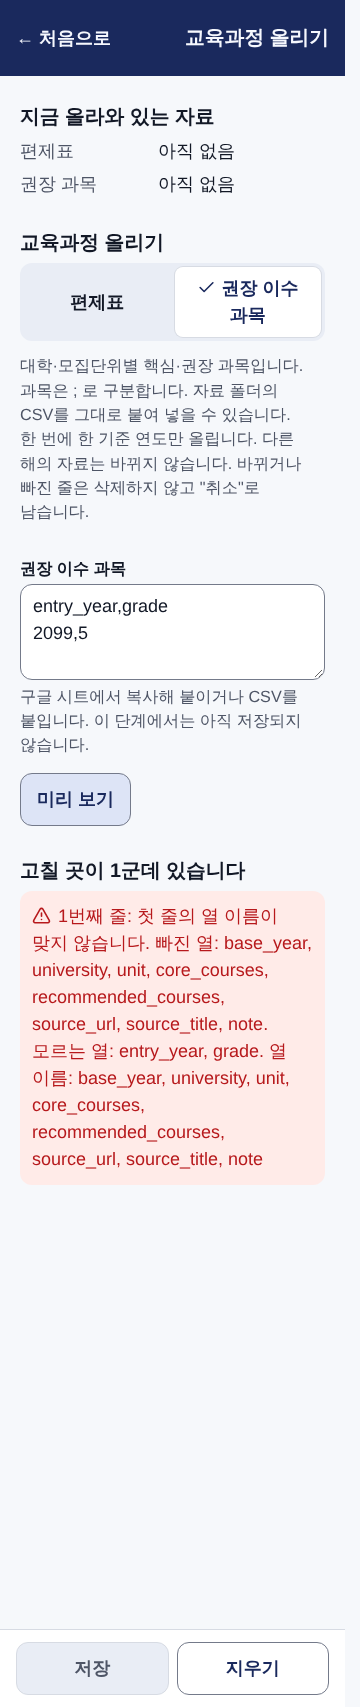
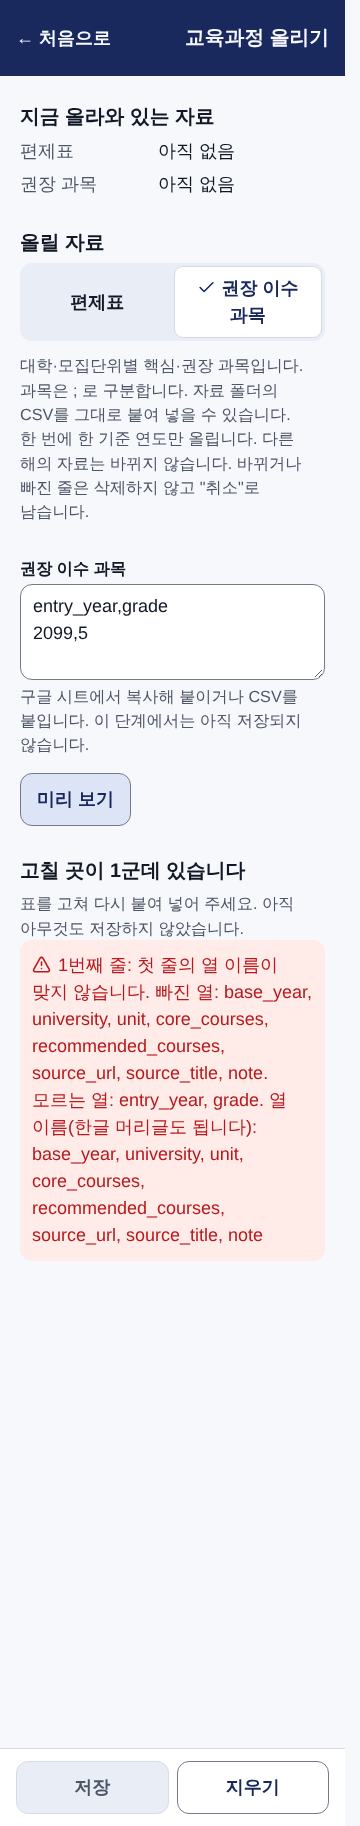
S6-1: 디자인 대조 반영 — 한글 이름 먼저·오류 열 이름 한글·'빠지는 줄'·이름 경고 이유와 '혹시 …인가요?'·오류 정렬·저장 확인 시트 모양·학년도 통일
Claude-Session: https://claude.ai/code/session_01By8YabMg6JhtJe4Vt8FkLC

diff --git a/src/ui/screen_curriculum.html b/src/ui/screen_curriculum.html
@@ -8,9 +8,10 @@
   /** 교육과정 올리기(S6-1, 결정 102): 편제표·권장 이수 과목을 붙여넣기 → 미리 보기 → 하단 바에서 저장. 명단 올리기와 같은 흐름. */
   function renderScreen(root) {
     var KINDS = {
-      curriculum: { label: '편제표', cols: 'entry_year, grade, semester, choice_group, pick_n, course', hint: '입학년도(2027)·학년·학기별 과목표입니다. 선택군이 있으면 택N(몇 과목 고르나)을 함께 적습니다. 선택군이 비면 필수 과목입니다.' },
-      recommendations: { label: '권장 이수 과목', cols: 'base_year, university, unit, core_courses, recommended_courses, source_url, source_title, note', hint: '대학·모집단위별 핵심·권장 과목입니다. 과목은 ; 로 구분합니다. 자료 폴더의 CSV를 그대로 붙여 넣을 수 있습니다.' }
+      curriculum: { label: '편제표', cols: '입학년도, 학년, 학기, 선택군, 택N, 과목 (영어 열 이름 entry_year, grade, … 도 됩니다)', hint: '입학년도(2027)·학년·학기별 과목표입니다. 선택군이 있으면 택N(몇 과목 고르나)을 함께 적습니다. 선택군이 비면 필수 과목입니다.' },
+      recommendations: { label: '권장 이수 과목', cols: '기준 연도, 대학, 모집단위, 핵심 과목, 권장 과목, 출처 주소, 출처 제목, 비고 (영어 열 이름 base_year, university, … 도 됩니다)', hint: '대학·모집단위별 핵심·권장 과목입니다. 과목은 ; 로 구분합니다. 자료 폴더의 CSV를 그대로 붙여 넣을 수 있습니다.' }
     };
+    var KO = { entry_year: '입학년도', grade: '학년', semester: '학기', choice_group: '선택군', pick_n: '택N', course: '과목', base_year: '기준 연도', university: '대학', unit: '모집단위', core_courses: '핵심 과목', recommended_courses: '권장 과목', source_url: '출처 주소', source_title: '출처 제목', note: '비고' };
     var state = { kind: 'curriculum', preview: null, snapshot: '', busy: false };
     var summary = el('div', { class: 'card' });
     var head = el('div', { class: 'card' });
@@ -29,8 +30,8 @@
       call('getCurriculumSummary').then(function (d) {
         clear(summary);
         summary.appendChild(el('h2', { text: '지금 올라와 있는 자료' }));
-        var rows = [['편제표', d.curriculum.length ? d.curriculum.map(function (y) { return y.year + '학년 입학 ' + y.rows + '줄'; }).join(' · ') : '아직 없음'],
-          ['권장 과목', d.recommendations.length ? d.recommendations.map(function (y) { return y.year + ' 기준 ' + y.rows + '줄'; }).join(' · ') : '아직 없음']];
+        var rows = [['편제표', d.curriculum.length ? d.curriculum.map(function (y) { return y.year + '학년도 입학 ' + y.rows + '줄'; }).join(' · ') : '아직 없음'],
+          ['권장 과목', d.recommendations.length ? d.recommendations.map(function (y) { return y.year + '년 기준 ' + y.rows + '줄'; }).join(' · ') : '아직 없음']];
         summary.appendChild(kv(rows));
       }).catch(function (err) { clear(summary); showError(summary, err); });
     }
@@ -40,7 +41,7 @@
 
     function build() {
       clear(head);
-      head.appendChild(el('h2', { text: '교육과정 올리기' }));
+      head.appendChild(el('h2', { text: '올릴 자료' }));
       head.appendChild(UI.segmented({
         label: '무엇을 올리나요', value: state.kind,
         options: [{ value: 'curriculum', label: '편제표' }, { value: 'recommendations', label: '권장 이수 과목' }],
@@ -96,8 +97,8 @@
     function drawResult(p) {
       clear(resultBox);
       if (!p.ok) {
-        var c = el('div', { class: 'card' }, [el('h2', { text: '고칠 곳이 ' + (p.errorCount || p.errors.length) + '군데 있습니다' })]);
-        p.errors.forEach(function (e) { c.appendChild(el('div', { class: 'error', text: (e.line ? e.line + '번째 줄' + (e.column ? ' · ' + e.column : '') + ': ' : '') + e.message })); });
+        var c = el('div', { class: 'card' }, [el('h2', { text: '고칠 곳이 ' + (p.errorCount || p.errors.length) + '군데 있습니다' }), el('div', { class: 'muted', style: 'word-break:keep-all', text: '표를 고쳐 다시 붙여 넣어 주세요. 아직 아무것도 저장하지 않았습니다.' })]);
+        p.errors.forEach(function (e) { c.appendChild(el('div', { class: 'error', text: (e.line ? e.line + '번째 줄' + (e.column ? ' · ' + (KO[e.column] || e.column) : '') + ': ' : '') + e.message })); });
         resultBox.appendChild(c);
       } else {
         var k = p.counts;
@@ -114,7 +115,7 @@
         };
         sect('새 줄', '', p.lists.add, k.add);
         sect('바뀌는 줄', '옛 줄은 "취소"로 남고 새 줄이 생깁니다.', p.lists.changed, k.changed);
-        sect('새 글에 없는 줄', '삭제하지 않고 "취소"로 바꿉니다.', p.lists.remove, k.remove);
+        sect('빠지는 줄', '삭제하지 않고 "취소"로 바꿉니다.', p.lists.remove, k.remove);
       }
       if (p.warnings && p.warnings.length) {
         var w = el('div', { class: 'card' }, [el('h2', { text: '알아 두세요 (' + p.warnings.length + ')' })]);
@@ -126,7 +127,10 @@
     function onSave() {
       var p = state.preview;
       if (!p || !isFresh()) { onInputChanged(); UI.toast('입력이 바뀌었습니다. [미리 보기]를 다시 눌러 주세요.', { kind: 'warn' }); return; }
-      UI.confirmSheet({ title: '저장할까요?', message: p.year + (state.kind === 'curriculum' ? '학년도 입학 편제표' : ' 기준 권장 이수 과목') + ': 새 줄 ' + p.counts.add + '줄, 바뀌는 줄 ' + p.counts.changed + '줄, 빠지는 줄 ' + p.counts.remove + '줄, 같은 줄 ' + p.counts.same + '줄. 바뀌거나 빠지는 줄의 옛 내용은 "취소"로 남습니다. 잘못 올렸으면 고친 표를 다시 올리면 됩니다.', confirmText: '저장', onconfirm: function () {
+      var k = p.counts;
+      UI.confirmSheet({ title: '저장', lead: p.year + (state.kind === 'curriculum' ? '학년도 입학 편제표' : '년 기준 권장 이수 과목'),
+        lines: ['새 줄 ' + k.add + '줄, 바뀌는 줄 ' + k.changed + '줄, 빠지는 줄 ' + k.remove + '줄, 같은 줄 ' + k.same + '줄', '바뀌거나 빠지는 줄의 옛 내용은 "취소"로 남습니다.', '잘못 올렸으면 고친 표를 다시 올리면 됩니다.'],
+        message: '저장할까요?', confirmText: '저장', onconfirm: function () {
         state.busy = true; saveBtn.disabled = true;
         call('saveCurriculum', state.kind, textarea.value, { kind: state.kind, counts: p.counts }).then(function (r) {
           state.busy = false;
